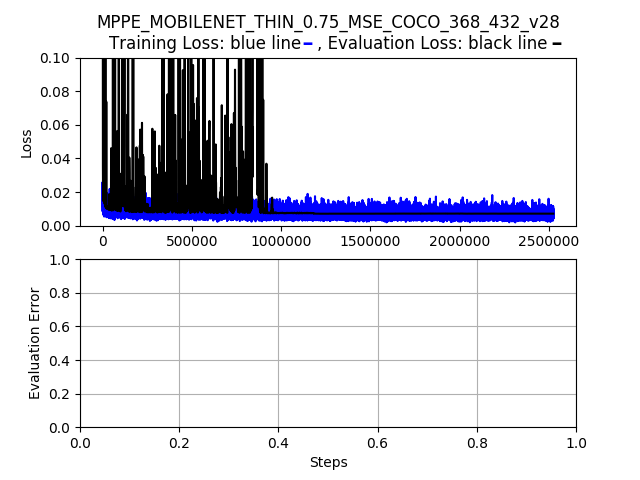
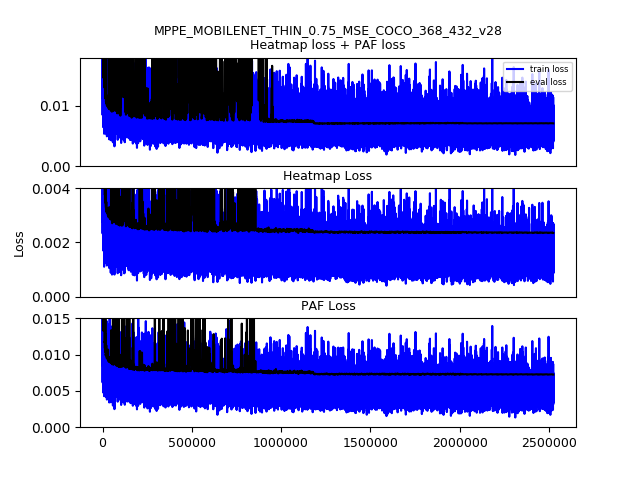
update loss figures

diff --git a/script/loss_draw_tf.py b/script/loss_draw_tf.py
@@ -11,11 +11,11 @@ args = parser.parse_args()
 t_num = 1
 v_num = t_num //10
 
-loss_ylim = 0.1
-hm_ylim = 0.02
-paf_ylim = 0.08
+loss_ylim = 0.03
+hm_ylim = 0.0025
+paf_ylim = 0.007
 
-val_batch_size = 64
+val_batch_size = 32
 def main():
     model_name = args.model
     path_root = '../logs/{}.log'.format(model_name)
@@ -76,12 +76,13 @@ def main():
     
     P = plt.figure(1)
 
-    p1 = plt.subplot(211)
+    p1 = plt.subplot(311)
     # plt.plot(training_data[100:, 0], training_data[100:, 1], 'b')
     # plt.plot(evaluation_data[0:, 0], evaluation_data[10:, 1], 'k')
 
-    plt.plot(training_data[t_num:, 0], training_data[t_num:, 1], 'b')
-    plt.plot(evaluation_data[v_num:, 0], evaluation_data[v_num:, 1], 'k')
+    plt.plot(training_data[t_num:, 0], training_data[t_num:, 1], 'b', label='train loss')
+    plt.plot(evaluation_data[v_num:, 0], evaluation_data[v_num:, 1], 'k', label='eval loss')
+    plt.legend(loc='best',prop={'size':6})
     plt.ylim(0, loss_ylim)
     # plt.ylim(3.0, 15.0)
     avg_e_loss = np.average(evaluation_data[:, 1])
@@ -90,32 +91,45 @@ def main():
     # plt.axhline(avg, color= 'r')
     min_e_ind = evaluation_data[np.argmin(evaluation_data[:, 1]), 0]
     print('Minimum eval loss: {}, at steps: {}'.format(min_e_loss, min_e_ind))
-    plt.ylabel("Loss")
-    plt.title(
-        model_name + '\n' + 'Training Loss: blue line   ' +
-        ', Evaluation Loss: black line')
-    P.text(0.48,0.875,'-', ha='center', va='bottom', size=24,color='blue')
-    P.text(0.87,0.875,'-', ha='center', va='bottom', size=24,color='black')
-    p2 = plt.subplot(212)
-
-    plt.xlabel("Steps")
-    plt.ylabel("Evaluation Error")
-    plt.grid()
-    P.savefig("../logs/{}.png".format(model_name))
     
+    plt.title(model_name + '\n' + 'Heatmap loss + PAF loss',fontsize = 9)
+    plt.xticks([])
+    # P.text(0.48,0.87,'-', ha='center', va='bottom', size=24,color='blue')
+    # P.text(0.72,0.87,'-', ha='center', va='bottom', size=24,color='black')
+    p2 = plt.subplot(312)
 
-    PP = plt.figure(2)
+    # plt.xlabel("Steps")
+    # plt.ylabel("Evaluation Error")
+    # plt.grid()
+    # P.savefig("../logs/{}.png".format(model_name))
     plt.plot(training_data[t_num:, 0], training_data[t_num:, 2], 'b')
     plt.plot(evaluation_data[v_num:, 0], evaluation_data[v_num:, 2], 'k')
     plt.ylim(0, hm_ylim)
-    plt.title(model_name + '\n' + 'Training hm Loss: blue line   ' + ', Evaluation Loss: black line')
-    PP.savefig("../logs/{}_hm.png".format(model_name))
-    PPP = plt.figure(3)
+    plt.xticks([])
+    plt.ylabel("Loss",fontsize = 9)
+    plt.title('\n' + 'Heatmap Loss',fontsize = 9)
+    # P.savefig("../logs/{}_hm.png".format(model_name))
+
+    p3 = plt.subplot(313)
     plt.plot(training_data[t_num:, 0], training_data[t_num:, 3], 'b')
     plt.plot(evaluation_data[v_num:, 0], evaluation_data[v_num:, 3], 'k')
+    plt.xticks(fontsize=9)
     plt.ylim(0, paf_ylim)
-    plt.title(model_name + '\n' + 'Training paf Loss: blue line   ' + ', Evaluation Loss: black line')
-    PPP.savefig("../logs/{}_vect.png".format(model_name))
+    plt.title('\n' + 'PAF Loss',fontsize = 9)
+    P.savefig("../logs/{}.png".format(model_name))
+    # PP = plt.figure(2)
+    # plt.plot(training_data[t_num:, 0], training_data[t_num:, 2], 'b')
+    # plt.plot(evaluation_data[v_num:, 0], evaluation_data[v_num:, 2], 'k')
+    # plt.ylim(0, hm_ylim)
+    # plt.title(model_name + '\n' + 'Training hm Loss: blue line   ' + ', Evaluation Loss: black line')
+    # PP.savefig("../logs/{}_hm.png".format(model_name))
+    # PPP = plt.figure(3)
+    # plt.plot(training_data[t_num:, 0], training_data[t_num:, 3], 'b')
+    # plt.plot(evaluation_data[v_num:, 0], evaluation_data[v_num:, 3], 'k')
+    # plt.ylim(0, paf_ylim)
+    # plt.title(model_name + '\n' + 'Training paf Loss: blue line   ' + ', Evaluation Loss: black line')
+    # PPP.savefig("../logs/{}_vect.png".format(model_name))
+
     plt.show()
 
 if __name__ == '__main__':
